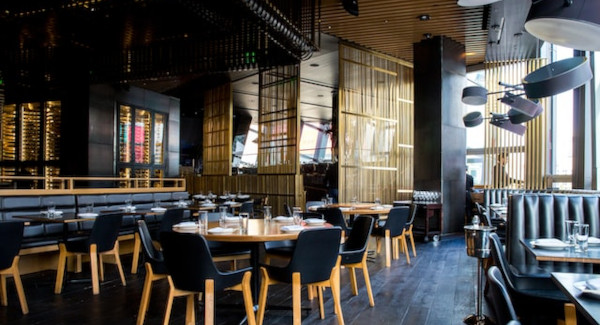
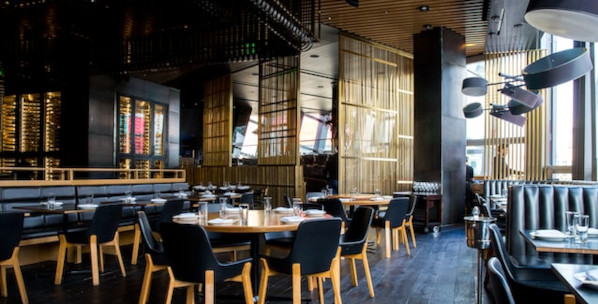
t

diff --git a/index.html b/index.html
@@ -38,7 +38,7 @@
             <div class="two">
                   <div class="a">
                         <img src= "images/r2.jpg" 
-                        alt= "Haukai Restaurant" width="600" height="325">
+                        alt= "Haukai Restaurant" width="598" height="304">
                         
                   </div>
                   <div class="a">

diff --git a/css/style.css b/css/style.css
@@ -28,10 +28,7 @@
         font-size: 1.85em;
     }
                 
-    
-    
         
-   
     body {
         background-color: #dee4e6;
     }
@@ -141,6 +138,10 @@ footer {
       max-width: 100%;
       justify-items: center;
       
+    }
+
+    .header a{
+        float:none;
     }
   }
 
